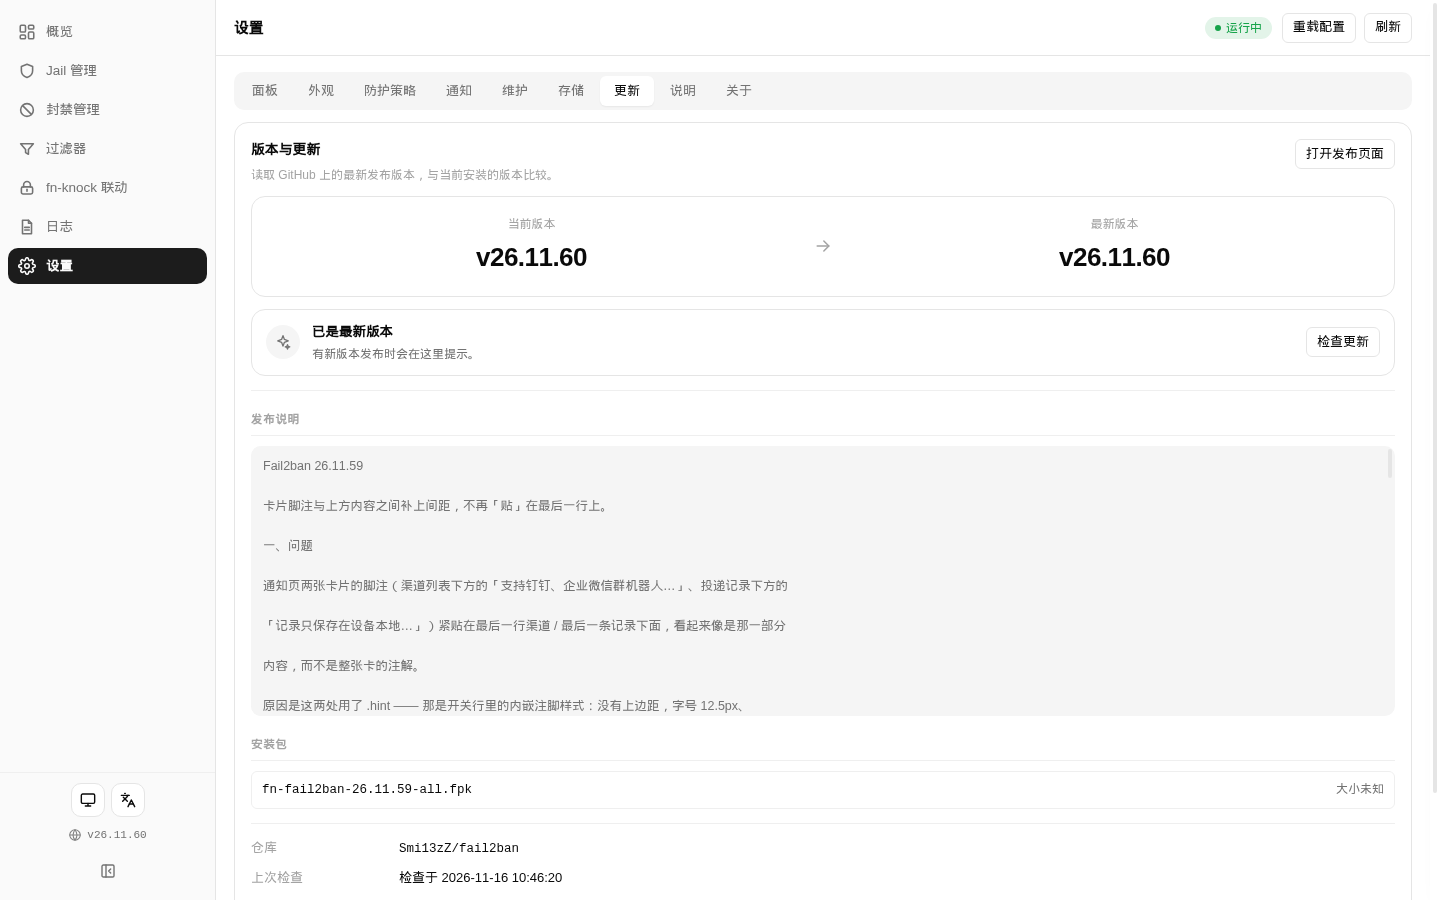
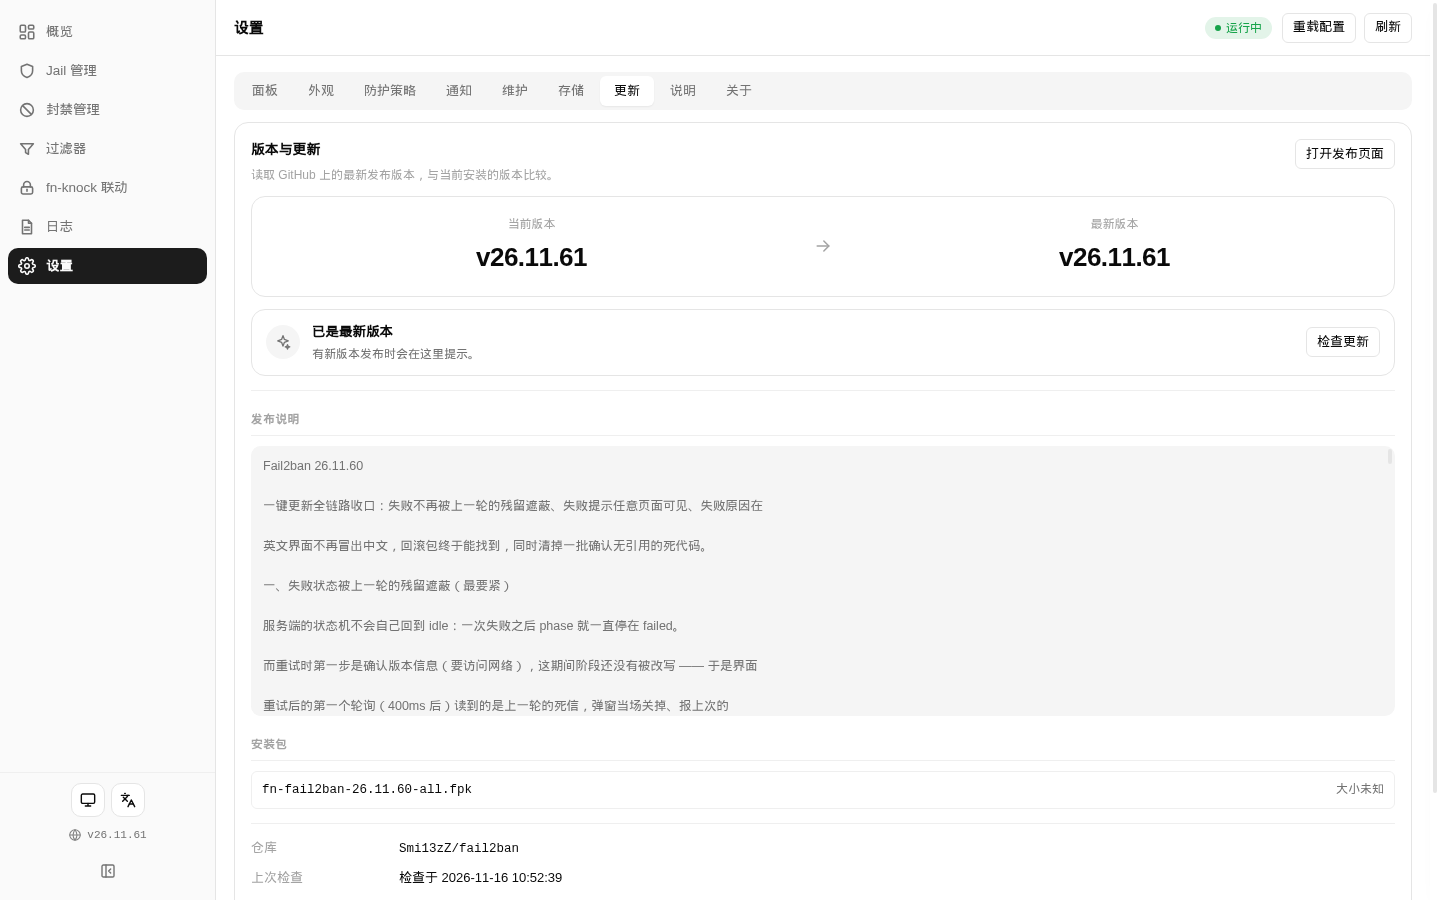
26.11.61 补完死代码清理：删掉 6 条仍无引用的 CSS 规则
26.11.60 发布后，同一轮审计又报出 6 条没有被任何标记或脚本命中的 CSS 规则 ——
它们和上一版清掉的那批是同一类，只是先前的核对把 .field / .grow 当成「被引用」
放过了。本版删掉：

- .c-filter / .c-logpath：这两列在 26.11.23 已从 Jail 表移除，宽度规则没人再命中
- .form-grid .field.full：渲染出来的永远是 class="field"，从没加过 full
- .toolbar .grow：工具栏的伸缩占位用的是 .h3-grow，与 .grow 不是一个类
- .nav .nav-item.on .nav-badge：nav-item 兼容写法已清空，只剩这一条
- .page-title：页面标题只走 .page-head h1，这个并列别名没人用

顺带把 .nav-item 兼容选择器的最后一处换成实际的 .nav button.active。

.badge.accent 是审计的误报，保留：它的使用点在字典的 HTML 片段里
（ban.selectedInline 等 7 处），而脚本的引用语料不含字典值。凡是「由字典词条
或字符串拼接渲染出来的类名」，静态审计都会误报，需要人工复核。

无功能改动。设备上重跑了 retry / failbar-en / norollback 三个探针场景，
读回结果与 26.11.60 完全一致。

diff --git a/src/pkg/fn-fail2ban/app/web/style.css b/src/pkg/fn-fail2ban/app/web/style.css
@@ -243,7 +243,7 @@ input:focus-visible, select:focus-visible, textarea:focus-visible { outline: non
 .nav-badge:empty { display: none; }
 
 .nav button.active .nav-badge,
-.nav .nav-item.on .nav-badge {
+.nav button.active .nav-badge {
   background: color-mix(in srgb, var(--nav-active-fg) 16%, transparent);
   color: var(--nav-active-fg);
 }
@@ -747,9 +747,7 @@ input[type="checkbox"]:focus-visible {
 table.fixed { table-layout: fixed; }
 table.fixed th, table.fixed td { overflow: hidden; text-overflow: ellipsis; }
 /* 列宽固定后，过长的 logpath 需要在格子里自己截断并显示省略号 */
-table.fixed td.mono,
-table.fixed td.c-logpath,
-table.fixed td.c-filter { text-overflow: ellipsis; }
+table.fixed td.mono { text-overflow: ellipsis; }
 
 /* 每列一个够用的最小宽度：数字列按最长的「9999999」算，状态列按最长徽章算。
    宽度只写在表头上——table-layout:fixed 只看第一行的声明，单元格沿用同一列宽。 */
@@ -758,9 +756,6 @@ table.fixed td.c-filter { text-overflow: ellipsis; }
 .c-jail { width: 240px; }
 /* 100px 是按英文表头「Current bans」量的：再窄就会把表头截成省略号 */
 .c-count { width: 100px; }
-.c-filter { width: 96px; }
-/* 概览表列少，日志文件列吃掉剩余宽度；Jail 表列多，单独给它定宽 */
-.c-logpath { width: auto; min-width: 150px; }
 .c-acts { width: 140px; }
 .c-ip { width: 180px; }
 .c-time { width: 124px; }
@@ -1066,7 +1061,6 @@ td .cell-actions .btn.danger:hover {
   flex-wrap: wrap;
   margin-bottom: var(--gap);
 }
-.toolbar .grow { flex: 1 1 160px; min-width: 0; }
 /* 工具栏里的输入框不再吃满整行：给一个接近旧版（≤320px）的定宽，
    避免在还没套 .toolbar-search 的页面上缩成 input 的默认 20 字符宽 */
 .toolbar .input, .toolbar input[type="text"], .toolbar input[type="search"] {
@@ -1839,7 +1833,7 @@ details.raw pre {
     color: var(--text);
   }
   .page-head { flex: 1 1 auto; min-width: 0; }
-  .page-head h1, .page-title {
+  .page-head h1 {
     font-size: 14px;
     overflow: hidden;
     text-overflow: ellipsis;
@@ -1927,7 +1921,6 @@ details.raw pre {
   .ip-row { padding: 9px 10px; }
 
   .toolbar { gap: 8px; }
-  .toolbar .grow { flex: 1 1 100%; }
   .toolbar-search,
   .toolbar .toolbar-search,
   .toolbar input.toolbar-search,
@@ -3296,7 +3289,6 @@ html[data-density="compact"] .ttable td { padding-top: 6px; padding-bottom: 6px;
   grid-template-columns: repeat(2, minmax(0, 1fr));
   gap: 12px 14px;
 }
-.form-grid .field.full { grid-column: 1 / -1; }
 @media (max-width: 720px) {
   .form-grid { grid-template-columns: minmax(0, 1fr); }
 }

diff --git a/src/pkg/fn-fail2ban/app/bin/server.py b/src/pkg/fn-fail2ban/app/bin/server.py
@@ -38,7 +38,7 @@ import store  # noqa: E402
 import update  # noqa: E402
 
 APP_NAME = os.environ.get("TRIM_APPNAME") or "fn-fail2ban"
-APP_VERSION = "26.11.60"
+APP_VERSION = "26.11.61"
 PORT = int(os.environ.get("TRIM_SERVICE_PORT") or os.environ.get("F2B_PORT") or 18752)
 BIND_ADDR = os.environ.get("F2B_BIND") or "0.0.0.0"
 READY_FILE = os.environ.get("F2B_READYFILE") or os.path.join(store.VAR_DIR, "server.ready")

diff --git a/report/README-26.11.60.md b/report/README-26.11.60.md
@@ -7,8 +7,8 @@
 
 | 项 | 值 |
 | --- | --- |
-| 版本 | 26.11.60（上一版 26.11.59） |
-| 包 | `output/fn-fail2ban-26.11.60-all.fpk`（427,843 B） |
+| 版本 | 26.11.61（26.11.60 的功能改动 + 收尾的死代码清理，两版都走完了全流程） |
+| 包 | `output/fn-fail2ban-26.11.61-all.fpk`（427,175 B）；26.11.60 同时发布 |
 | 构建方式 | `python tools/build_fpk.py --host fnos-test`（fnpack 只在 Linux 上可用） |
 | 闸门 | `python tools/preflight.py` → 10 道全绿 |
 
@@ -119,3 +119,23 @@ progress: {"phase":"idle","attempt":0,"rollback":true,"current":"26.11.60"}
 - CHANGELOG / 本文件 / 代码注释 / commit message 均未出现「参照」「对齐」「和 xx 一致」这类表述。
 - 版本号已 bump 到 26.11.60，未原地覆盖任何旧包（`output/` 里历史包全部保留）。
 - 探针页 `_probe_up260.html` 用完已从设备 web 目录删除（复核：`grep -c _probe` = 0）。
+## 十、26.11.61 收尾补丁
+
+26.11.60 发布后，同一轮死代码审计又报出 6 条仍无引用的 CSS 规则 —— 它们和 26.11.60
+清掉的那批是同一类，只是先前的核对脚本把 `.field`/`.grow` 当成「被引用」放过了。
+本版删掉它们，并把 `.nav-item` 兼容选择器的最后一处换成实际的 `.nav button.active`。
+
+| 规则 | 为什么是死的 |
+| --- | --- |
+| `.c-filter` / `.c-logpath` | 这两列在 26.11.23 已从 Jail 表移除 |
+| `.form-grid .field.full` | 渲染出来的永远是 `class="field"`，从没加过 `full` |
+| `.toolbar .grow` | 工具栏的伸缩占位用的是 `.h3-grow`，不是 `.grow` |
+| `.nav .nav-item.on .nav-badge` | `nav-item` 兼容写法已清空，只剩这一条 |
+| `.page-title` | 页面标题只走 `.page-head h1` |
+
+**误报记录（保留不删）**：审计脚本报 `.badge.accent` 未引用，但该类的使用点在
+字典的 HTML 片段里（`ban.selectedInline` 等 7 处），而脚本的引用语料不含字典值。
+凡是「由字典词条或字符串拼接渲染出来的类名」，静态审计都会误报，需要人工复核。
+
+26.11.61 在设备上重跑了三个探针场景（retry / failbar-en / norollback），
+读回结果与 26.11.60 完全一致 —— 删 CSS 没有碰到任何在用的样式。

diff --git a/report/CONTEXT.md b/report/CONTEXT.md
@@ -37,6 +37,8 @@
 | 26.11.2 | 212,060 | 面板内图标换成自身资源（修豆腐块） |
 | 26.11.3 | 266,028 | i18n 中英文全量切换、主题图标按钮、删概览标题行、侧栏只留应用名 |
 | 26.11.4 | 291,407 | 新黑白盾牌九档图标、删侧栏品牌行、表格固定列宽、排序独立控件；顺带修 3 个缺陷 |
+| **26.11.61** | **—** | 收尾补完 26.11.60 的死代码清理：删 6 条无引用 CSS 规则（.c-filter/.c-logpath/.form-grid .field.full/.toolbar .grow/.nav .nav-item.on .nav-badge/.page-title 别名）；.badge.accent 是审计误报（由字典 HTML 片段渲染）保留。无功能改动 |
+| **26.11.60** | **—** | 一键更新全链路收口：attempt 编号（重试不再被上一轮死信打断）、checking 阶段、回滚包查找把包目录排第一并按 mtime 取最新、任意页面可见的失败条、code+detail 双下发 20 个错误码、进度条只在有 Content-Length 时出现、成功帧显示真实字节；修 app_version/backup 读不到 manifest（设备上 TRIM_APPDEST 指向 @appcenter 子树）与成功帧版本号取错；清死代码（42 i18n 键 / 5 前端函数 / 7 后端 / 7 CSS 变量 / 32 CSS 类）；新增 test_update_flow.py 与 test_backup_restore.py 两道闸门 |
 | **26.11.59** | **—** | 卡片脚注统一用 .card-note（上边距 12px / 12px / --faint），修通知两处脚注贴着内容；顺带修维护·备份提示、更新页底部说明、封禁页按 Jail 统计说明；存储页两条脚注合成一句 |
 | **26.11.58** | **—** | 13 处危险操作确认从浏览器原生 confirm 改为站内模态（confirmDanger 改返回 Promise）；标题/主按钮按动作命名、危险态红色、正文保留换行、Esc 只关最上层 |
 | **26.11.57** | **—** | 修「安装包缓存」恒空（扫的是 @appdata/update，包实际在 @apphome；且 @appdata→@apphome 的字面替换在软链接路径上失效，改为先 realpath）；存储页手机端不再左右划（路径列收起 + 选择器补到 .table-wrap table.ttable.tstorage 才压得住 auto）；桌面明细不再切半行（330→312px，阈值降到 700px） |

diff --git a/CHANGELOG.md b/CHANGELOG.md
@@ -2,6 +2,25 @@
 
 按版本倒序排列。安装包文件名带版本号，新版本一律用新号，不原地覆盖旧包。
 
+## 26.11.61
+
+补完 26.11.60 的死代码清理 —— 同一轮审计在收尾阶段又报出 6 个仍无引用的 CSS 规则，本版删掉。
+
+| 规则 | 为什么是死的 |
+| --- | --- |
+| `.c-filter` / `.c-logpath` | 这两列在 26.11.23 已从 Jail 表移除，宽度规则没人再命中 |
+| `.form-grid .field.full` | 标记渲染出来的永远是 `class="field"`，从没加过 `full` |
+| `.toolbar .grow` | 工具栏里的伸缩占位用的是 `.h3-grow`，与 `.grow` 不是一个类 |
+| `.nav .nav-item.on .nav-badge` | `.nav-item` 兼容写法在 26.11.60 已清空，只剩这一条残留 |
+| `.page-title` | 页面标题只走 `.page-head h1`，这个并列别名没人用 |
+
+顺带把 `.nav-item` 兼容选择器的最后一处换成实际的 `.nav button.active`。
+
+**一条误报，保留**：审计脚本报 `.badge.accent` 未引用，但它是由字典里的 HTML 片段渲染的
+（`ban.selectedInline` 等 7 处），而脚本的引用语料不含字典值 —— 这类动态拼接的类名不能删。
+
+无功能改动，界面与 26.11.60 完全一致。
+
 ## 26.11.60
 
 一键更新全链路收口：失败不再被上一轮的残留遮蔽、失败提示任意页面可见、失败原因在
